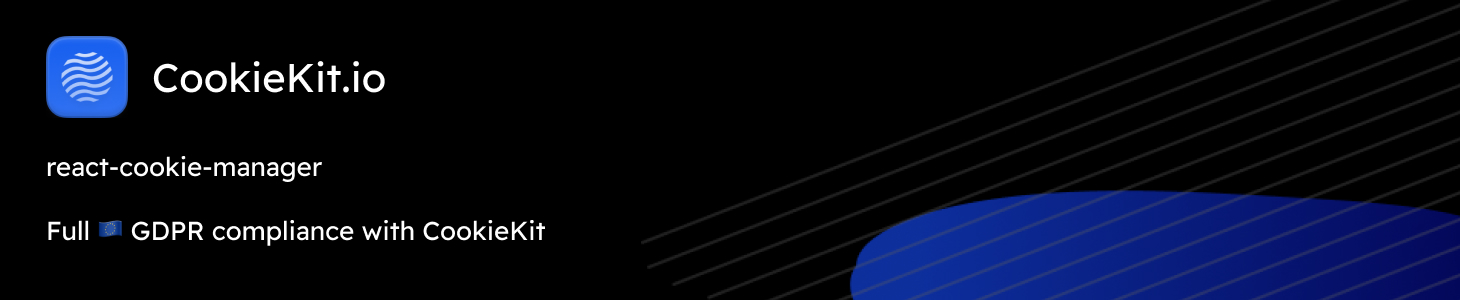
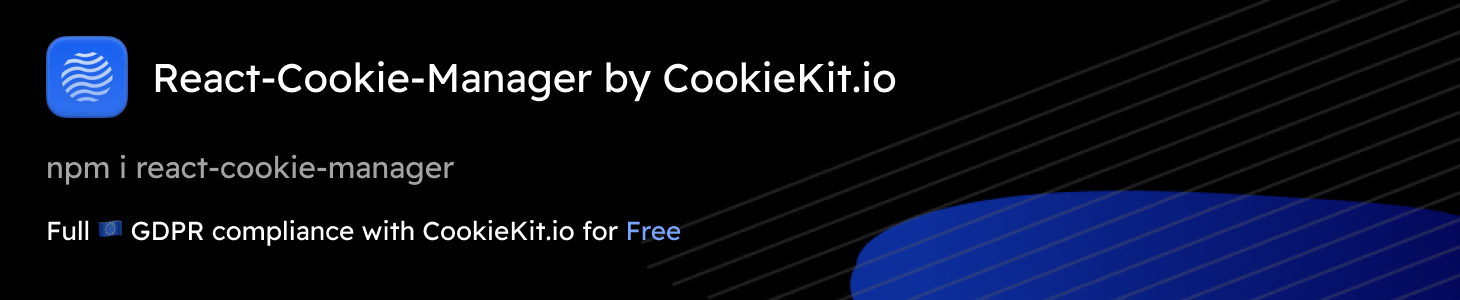
Update README and assets with consolidated style image

Changed region(s): [[0.0925, 0.21, 0.6164, 0.33], [0.0308, 0.54, 0.3082, 0.63], [0.3699, 0.75, 0.4623, 0.81]]

diff --git a/README.md b/README.md
@@ -104,13 +104,7 @@ The component requires its CSS file to be imported in your application. Add the 
 import "react-cookie-manager/style.css";
 ```
 
-![React Cookie Manager Popup Dark](https://github.com/hypershiphq/react-cookie-manager/blob/main/assets/popup-dark.png?raw=true)
-
-![React Cookie Manager Banner](https://github.com/hypershiphq/react-cookie-manager/blob/main/assets/banner.png?raw=true)
-
-![React Cookie Manager Modal](https://github.com/hypershiphq/react-cookie-manager/blob/main/assets/modal.png?raw=true)
-
-![React Cookie Manager Manage Cookies](https://github.com/hypershiphq/react-cookie-manager/blob/main/assets/manage-cookies.png?raw=true)
+![React Cookie Manager Styles](https://github.com/hypershiphq/react-cookie-manager/blob/main/assets/banner-styles.jpg?raw=true)
 
 ## Basic Usage
 
